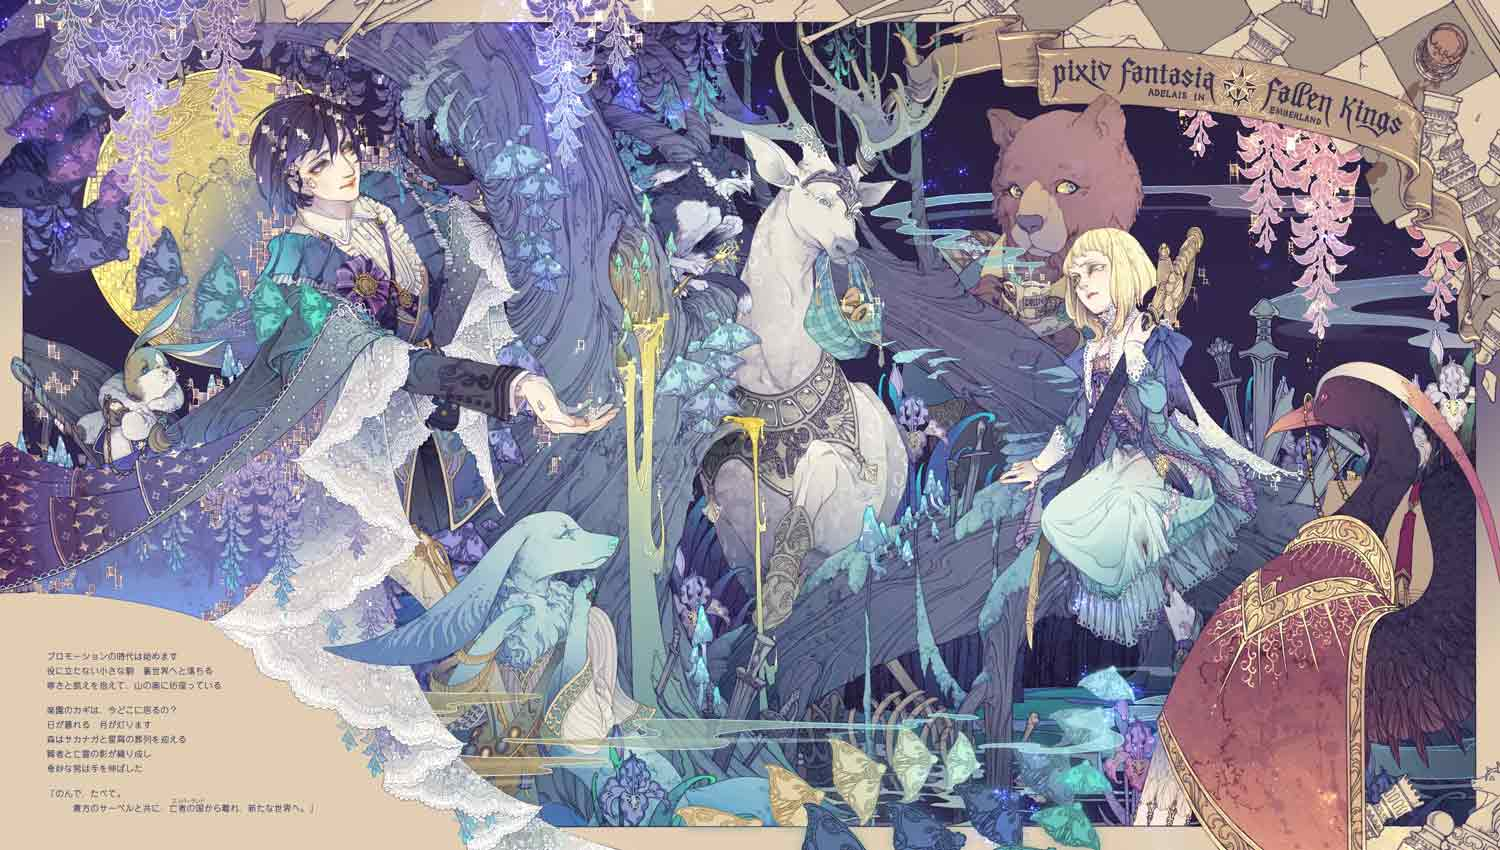
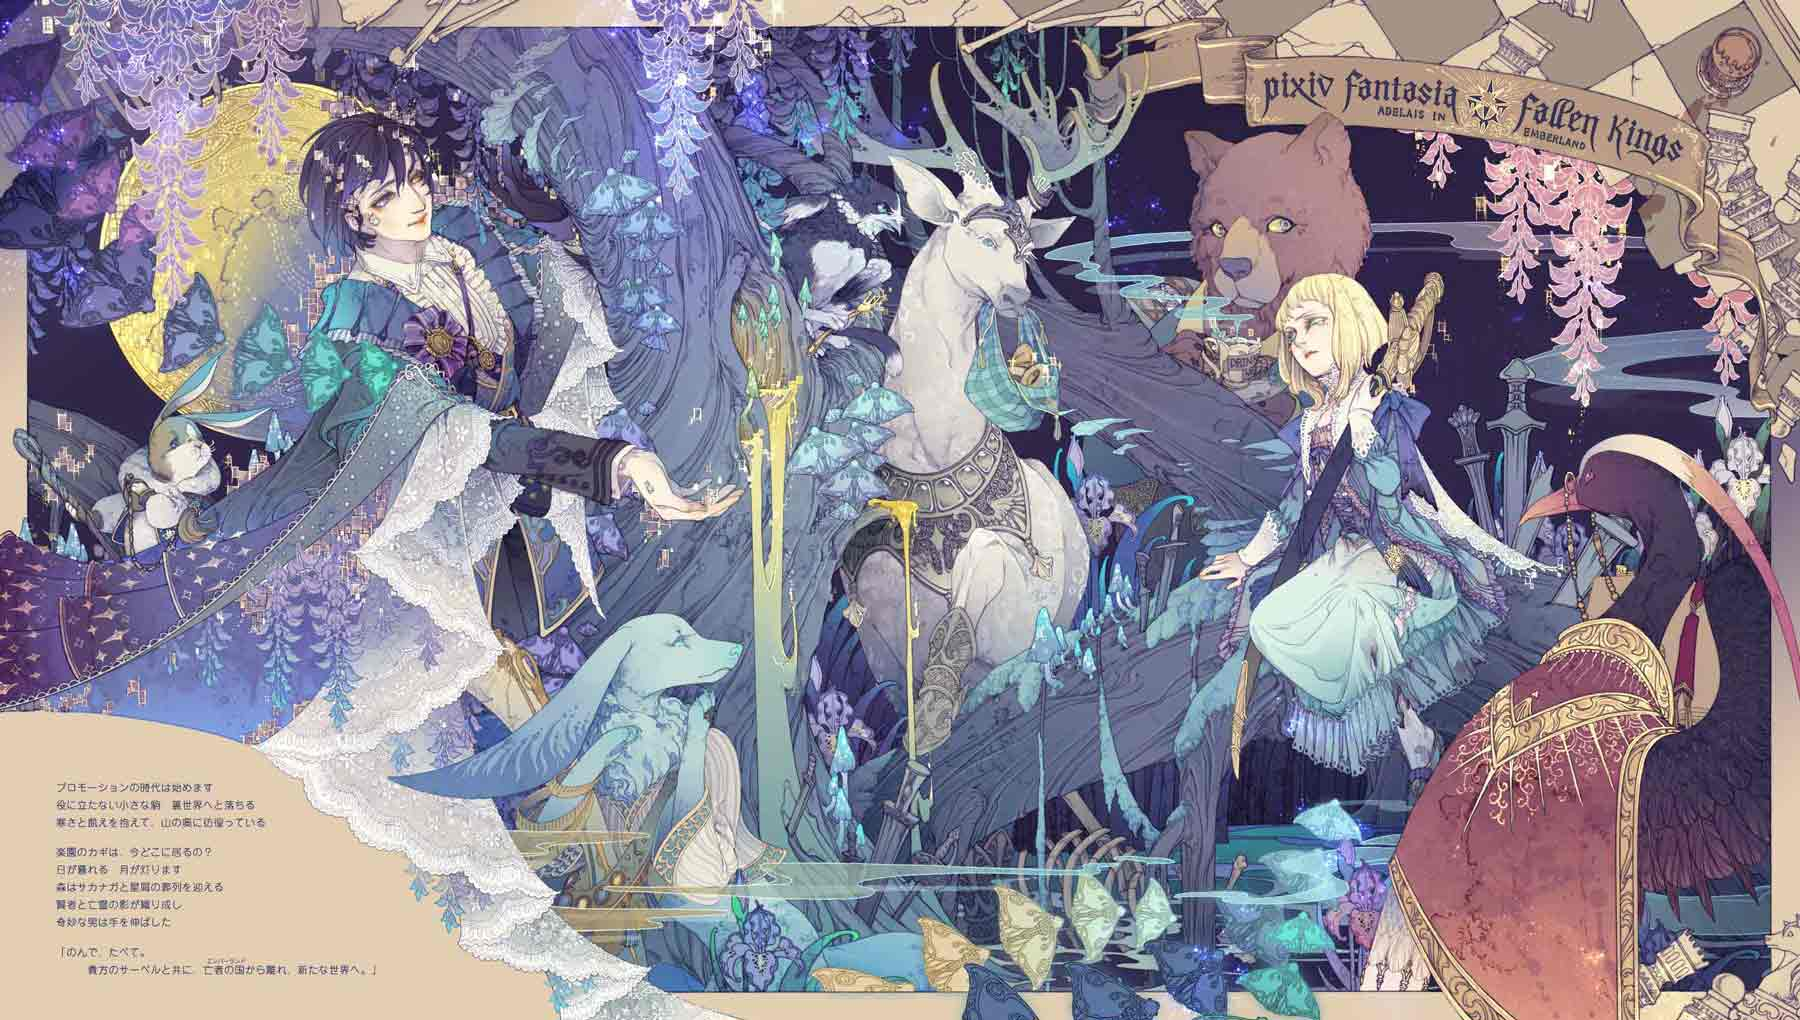
1.修改轮banner1轮播图片大小; 2.修改input的line-height为1.2~1.5em，以兼容safari中输入框的光标高度

diff --git a/common/base.css b/common/base.css
@@ -172,7 +172,9 @@ body {
     word-break: break-word;
     background: #efefef;
 }
-
+input{
+    line-height: 1.2em;
+}
 .f-cb:after {
     clear: both;
     content: '.';
@@ -952,7 +954,6 @@ body {
 .m-form .formitem-tt {
     font-size: 12px;
     height: 40px;
-    line-height: 40px;
     display: inline-block;
     width: 61px;
     padding-left: 17px;
@@ -976,7 +977,6 @@ body {
 
 .m-form-2 .formitem-ct {
     font-size: 12px;
-    line-height: 40px;
     height: 40px;
     box-sizing: border-box;
     display: inline-block;
@@ -1160,3 +1160,4 @@ body {
 .del-item-name {
     color: #5ed0ba;
 }
+

diff --git a/page/works/create.css b/page/works/create.css
@@ -124,7 +124,7 @@
 	padding:5px 12px;
 	width: 405px;
 	height: 106px;
-	line-height: 20px;
+	line-height: 1.5em;
 	vertical-align: top;
 }
 label[for="description"]{
